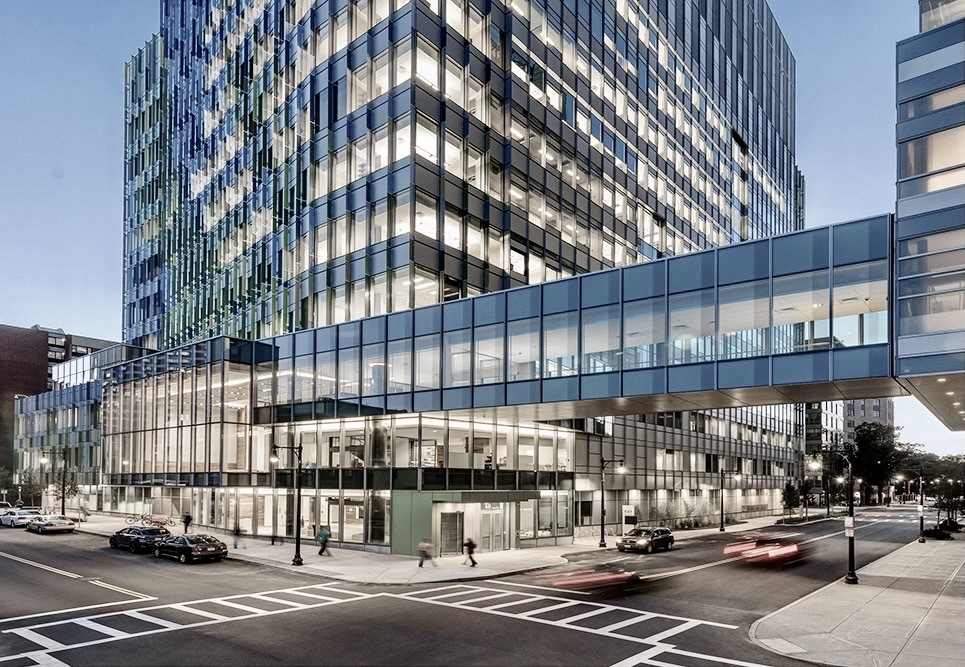
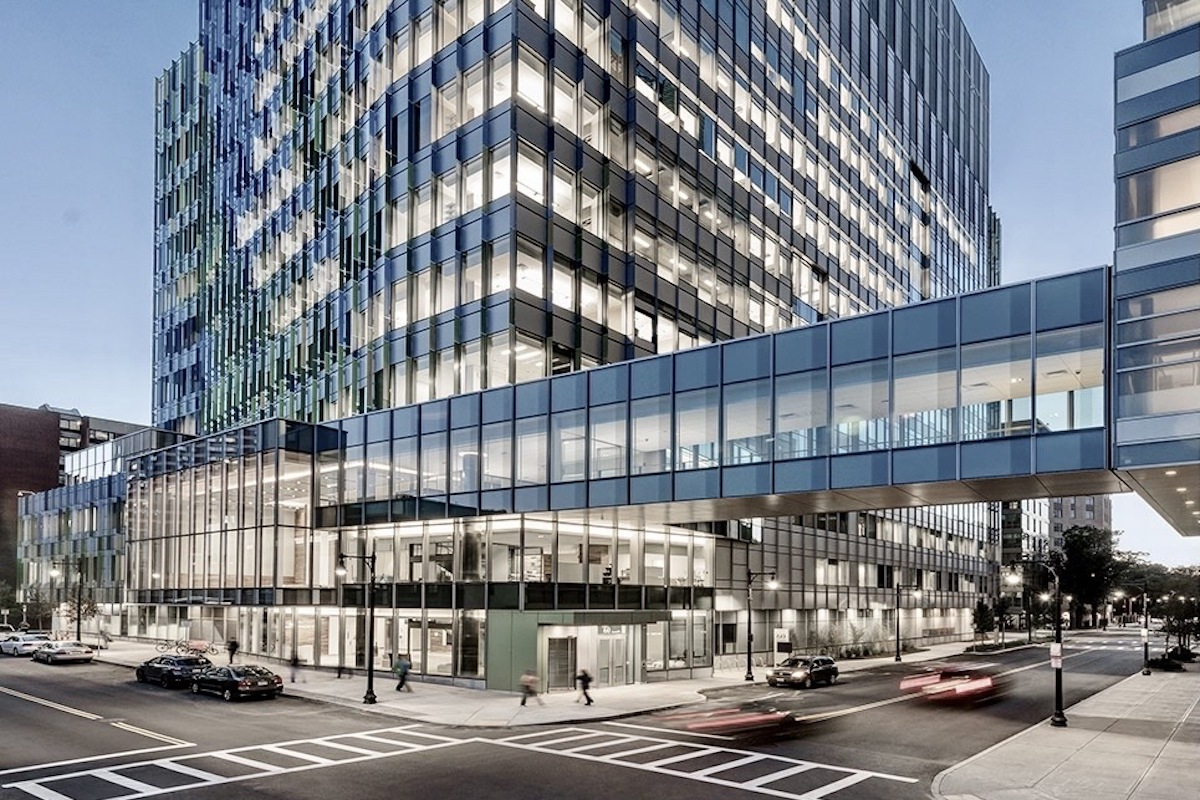
Fixed resizing of image on default and login pages. Need to find a more high res image

diff --git a/src/main/java/edu/wpi/cs3733/D21/teamE/states/SubmissionState.java b/src/main/java/edu/wpi/cs3733/D21/teamE/states/SubmissionState.java
@@ -12,21 +12,30 @@ public class SubmissionState {
 
     public void switchScene(ActionEvent event) {
 
-        String buttonName = ((Button) event.getSource()).getText();
+        String buttonName = ((Button) event.getSource()).getId();
 
-        if(buttonName.equals("Back")){
+        if(buttonName.equals("statusButton")){
             try {
-                Parent root = FXMLLoader.load(getClass().getResource("/edu/wpi/cs3733/D21/teamE/fxml/Login.fxml"));
-                App.getPrimaryStage().getScene().setRoot(root);
+                Parent root = FXMLLoader.load(getClass().getResource("/edu/wpi/cs3733/D21/teamE/fxml/ServiceRequestStatus.fxml"));
+                App.changeScene(root);
             } catch (IOException ex) {
                 ex.printStackTrace();
             }
         }
 
-        else if(buttonName.equals("Submit")){
+        else if(buttonName.equals("requestButton")){
+            try {
+                Parent root = FXMLLoader.load(getClass().getResource("/edu/wpi/cs3733/D21/teamE/fxml/ServiceRequests.fxml"));
+                App.changeScene(root);
+            } catch (IOException ex) {
+                ex.printStackTrace();
+            }
+        }
+
+        else if(buttonName.equals("defaultButton")){
             try {
                 Parent root = FXMLLoader.load(getClass().getResource("/edu/wpi/cs3733/D21/teamE/fxml/Default.fxml"));
-                App.getPrimaryStage().getScene().setRoot(root);
+                App.changeScene(root);
             } catch (IOException ex) {
                 ex.printStackTrace();
             }

diff --git a/src/main/java/edu/wpi/cs3733/D21/teamE/views/Default.java b/src/main/java/edu/wpi/cs3733/D21/teamE/views/Default.java
@@ -229,17 +229,15 @@ public class Default {
         //Set up images
         Stage primaryStage = App.getPrimaryStage();
 
-        Image hospital = new Image("edu/wpi/cs3733/D21/teamE/hospital.jpg");
+        Image hospital = new Image("edu/wpi/cs3733/D21/teamE/hospitalCropped.jpg");
         hospitalImageView.setImage(hospital);
-        hospitalImageView.setPreserveRatio(true);
-        hospitalImageView.setFitHeight(primaryStage.getHeight());
-        //hospitalImageView.fitWidthProperty().bind(imageAnchorPane.widthProperty());
+        hospitalImageView.setPreserveRatio(false);
+        //hospitalImageView.setFitHeight(primaryStage.getHeight());
         hospitalImageView.fitHeightProperty().bind(primaryStage.heightProperty());
+        hospitalImageView.fitWidthProperty().bind(primaryStage.widthProperty());
         imageAnchorPane.prefWidthProperty().bind(primaryStage.widthProperty());
         imageAnchorPane.prefHeightProperty().bind(primaryStage.heightProperty());
 
-        Rectangle2D viewport = new Rectangle2D(100, 0, hospital.getWidth(), hospital.getHeight());
-        hospitalImageView.setViewport(viewport);
 
         Image logo = new Image("edu/wpi/cs3733/D21/teamE/logo.png");
         logoImageView.setImage(logo);

diff --git a/src/main/java/edu/wpi/cs3733/D21/teamE/views/Login.java b/src/main/java/edu/wpi/cs3733/D21/teamE/views/Login.java
@@ -89,17 +89,14 @@ public class Login {
 		//Set up images
 		Stage primaryStage = App.getPrimaryStage();
 
-		Image hospital = new Image("edu/wpi/cs3733/D21/teamE/hospital.jpg");
+		Image hospital = new Image("edu/wpi/cs3733/D21/teamE/hospitalCropped.jpg");
 		hospitalImageView.setImage(hospital);
-		hospitalImageView.setPreserveRatio(true);
-		hospitalImageView.setFitHeight(primaryStage.getHeight());
+		hospitalImageView.setPreserveRatio(false);
+		//hospitalImageView.setFitHeight(primaryStage.getHeight());
 		hospitalImageView.fitHeightProperty().bind(primaryStage.heightProperty());
-
+		hospitalImageView.fitWidthProperty().bind(primaryStage.widthProperty());
 		imageAnchorPane.prefWidthProperty().bind(primaryStage.widthProperty());
 		imageAnchorPane.prefHeightProperty().bind(primaryStage.heightProperty());
-
-		Rectangle2D viewport = new Rectangle2D(100, 0, hospital.getWidth(), hospital.getHeight());
-		hospitalImageView.setViewport(viewport);
 
 		Image logo = new Image("edu/wpi/cs3733/D21/teamE/logo.png");
 		logoImageView.setImage(logo);

diff --git a/src/main/java/edu/wpi/cs3733/D21/teamE/states/RequestFormState.java b/src/main/java/edu/wpi/cs3733/D21/teamE/states/RequestFormState.java
@@ -25,7 +25,7 @@ public class RequestFormState {
 
         else if (buttonName.equals("Submit")) {
             try {
-                Parent root = FXMLLoader.load(getClass().getResource("/edu/wpi/cs3733/D21/teamE/fxml/ServiceRequests.fxml"));
+                Parent root = FXMLLoader.load(getClass().getResource("/edu/wpi/cs3733/D21/teamE/fxml/Submission.fxml"));
                 App.changeScene(root);
             } catch (IOException ex) {
                 ex.printStackTrace();
